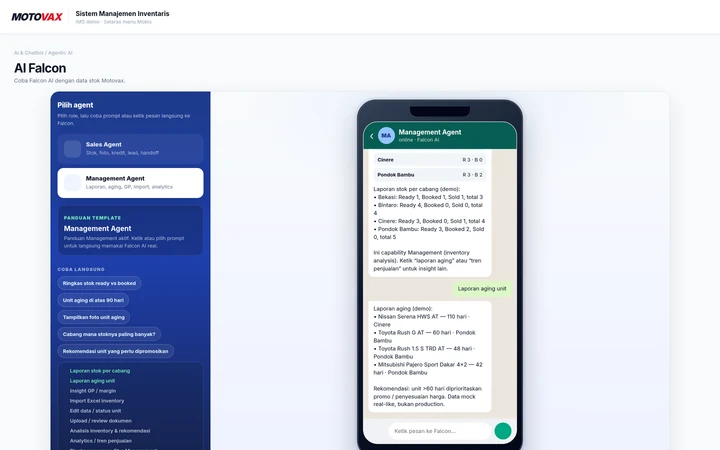
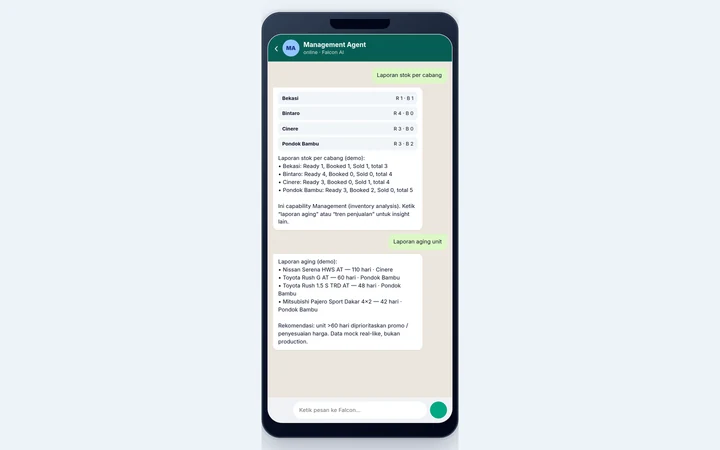
fix(inventory-falcon-ai): hilangkan rail Pilih agent dari mock iPhone
Screenshot query, foto, dan laporan Falcon sekarang hanya menampilkan
mock WhatsApp iPhone tanpa sidebar biru di kiri.

diff --git a/fitur/feature-page.js b/fitur/feature-page.js
@@ -642,13 +642,13 @@
     }
     if (id === "inventory-falcon-ai") {
       const falconPreview = previewFactory(
-        "inventory-falcon-query-public.png?v=falcon-tools-20260819",
+        "inventory-falcon-query-public.png?v=falcon-iphone-20260819",
         "Falcon AI · Query stok",
       );
       falconPreview.wide = true;
       return [
         falconPreview,
-        previewFactory("inventory-falcon-branches-public.png?v=falcon-tools-20260819", "Inventory · Unit per cabang"),
+        previewFactory("inventory-falcon-branches-public.png?v=falcon-iphone-20260819", "Inventory · Unit per cabang"),
         previews.analytics,
       ];
     }
@@ -806,35 +806,35 @@
       preview = captured("core-platform-native-ai-tools-public.png?v=20260805-2", "Core Platform · Native AI Tools", "Jasmine memakai inventori tenant untuk menjawab kebutuhan unit, memperbarui konteks lead, dan mendukung takeover serta handoff sesuai role.");
     } else if (slug === "inventory-falcon-ai" && /memahami|permintaan stok|query/i.test(capabilityTitle)) {
       preview = captured(
-        "inventory-falcon-query-public.png?v=falcon-tools-20260819",
+        "inventory-falcon-query-public.png?v=falcon-iphone-20260819",
         "Falcon AI · Query stok",
         "Falcon menerima permintaan stok lewat percakapan, lalu mengembalikan daftar unit ready lengkap dengan plat, kilometer, cabang, dan harga.",
         [1440, 900],
       );
     } else if (slug === "inventory-falcon-ai" && /foto|serupa|alternatif/i.test(capabilityTitle)) {
       preview = captured(
-        "inventory-falcon-photos-public.png?v=falcon-tools-20260819",
+        "inventory-falcon-photos-public.png?v=falcon-iphone-20260819",
         "Falcon AI · Foto dan alternatif",
         "Falcon mengirim foto unit yang diminta, lalu menawarkan unit serupa dari stok ready jika perlu alternatif.",
         [1440, 900],
       );
     } else if (slug === "inventory-falcon-ai" && /laporan|peran|aging/i.test(capabilityTitle)) {
       preview = captured(
-        "inventory-falcon-report-public.png?v=falcon-tools-20260819",
+        "inventory-falcon-report-public.png?v=falcon-iphone-20260819",
         "Falcon AI · Laporan sesuai peran",
         "Management mendapat laporan stok per cabang dan aging unit dari percakapan yang sama, sesuai permission.",
         [1440, 900],
       );
     } else if (slug === "inventory-falcon-ai" && /listing|multi-cabang/i.test(capabilityTitle)) {
       preview = captured(
-        "inventory-falcon-branches-public.png?v=falcon-tools-20260819",
+        "inventory-falcon-branches-public.png?v=falcon-iphone-20260819",
         "Inventory · Unit per cabang",
         "Stok ready, booked, sold, dan kelengkapan foto terlihat per cabang sebagai sumber kebenaran yang dibaca Falcon.",
         [1440, 900],
       );
     } else if (slug === "inventory-falcon-ai" && /import|validasi|katalog/i.test(capabilityTitle)) {
       preview = captured(
-        "inventory-falcon-import-public.png?v=falcon-tools-20260819",
+        "inventory-falcon-import-public.png?v=falcon-iphone-20260819",
         "Inventory · Import dan katalog API",
         "Import Excel atau Google Sheets menampilkan warning identitas, lalu stok aktif disajikan ke aplikasi eksternal lewat katalog API.",
         [1440, 900],

diff --git a/fitur/inventory-falcon-ai.html b/fitur/inventory-falcon-ai.html
@@ -64,7 +64,7 @@
 
     <script>window.__FEATURE_SLUG__ = "inventory-falcon-ai";</script>
     <script src="./features-data.js?v=falcon-copy-20260819"></script>
-    <script src="./feature-page.js?v=falcon-tools-20260819"></script>
+    <script src="./feature-page.js?v=falcon-iphone-20260819"></script>
     <script src="../script.js?v=ai-first-tools-20260819"></script>
   </body>
 </html>
